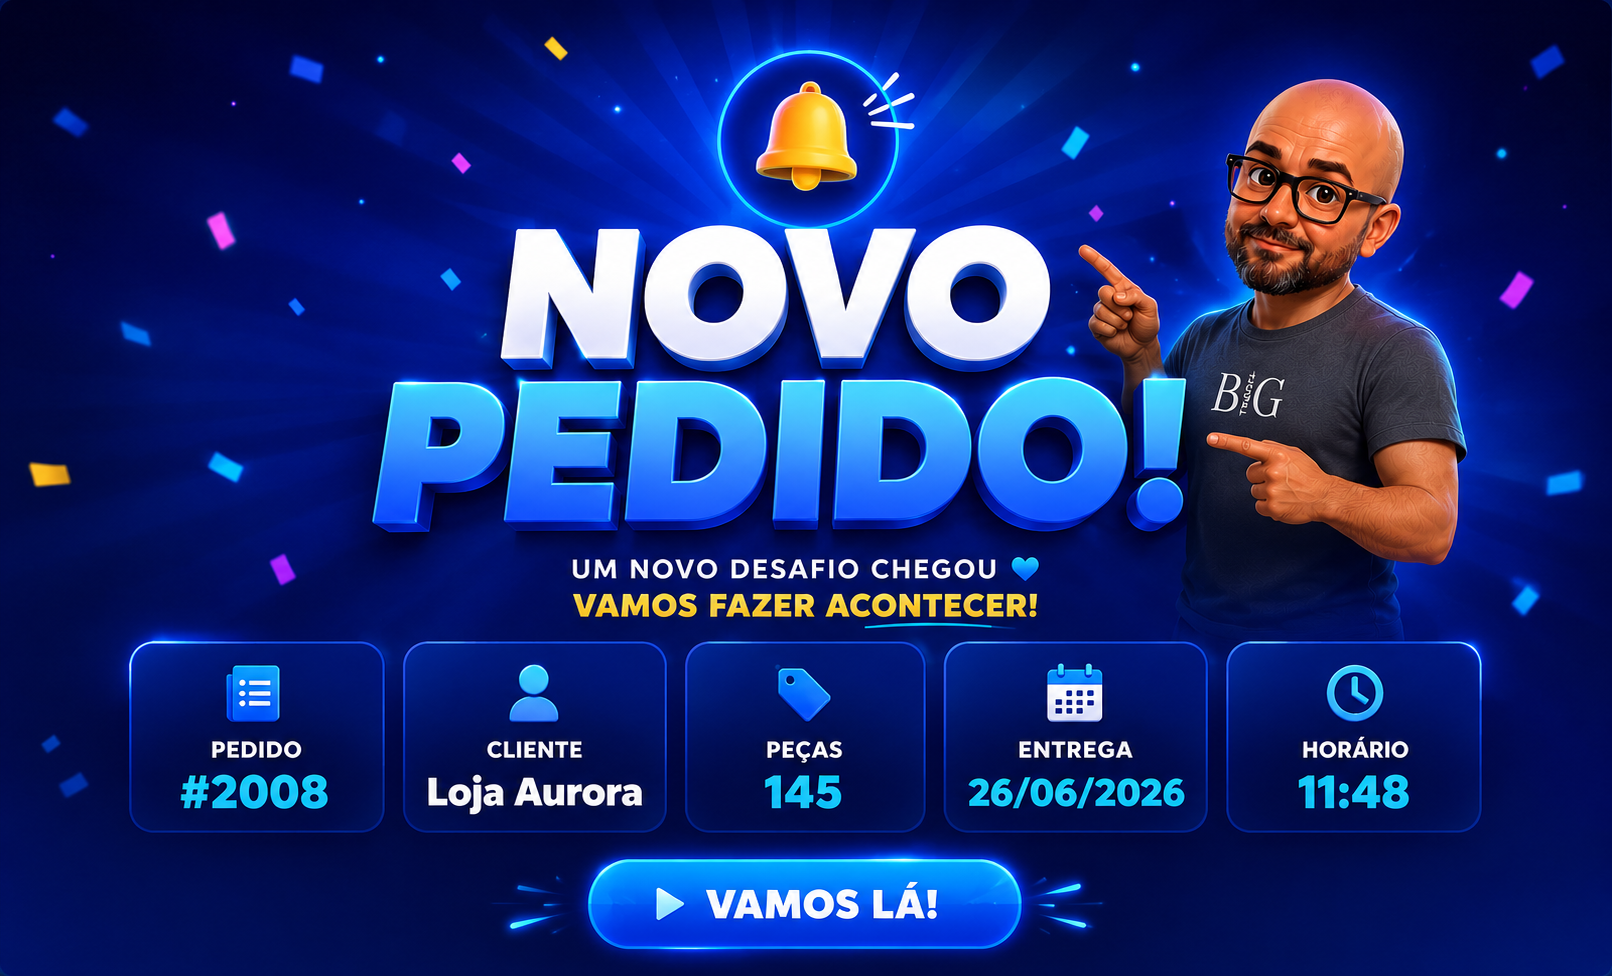
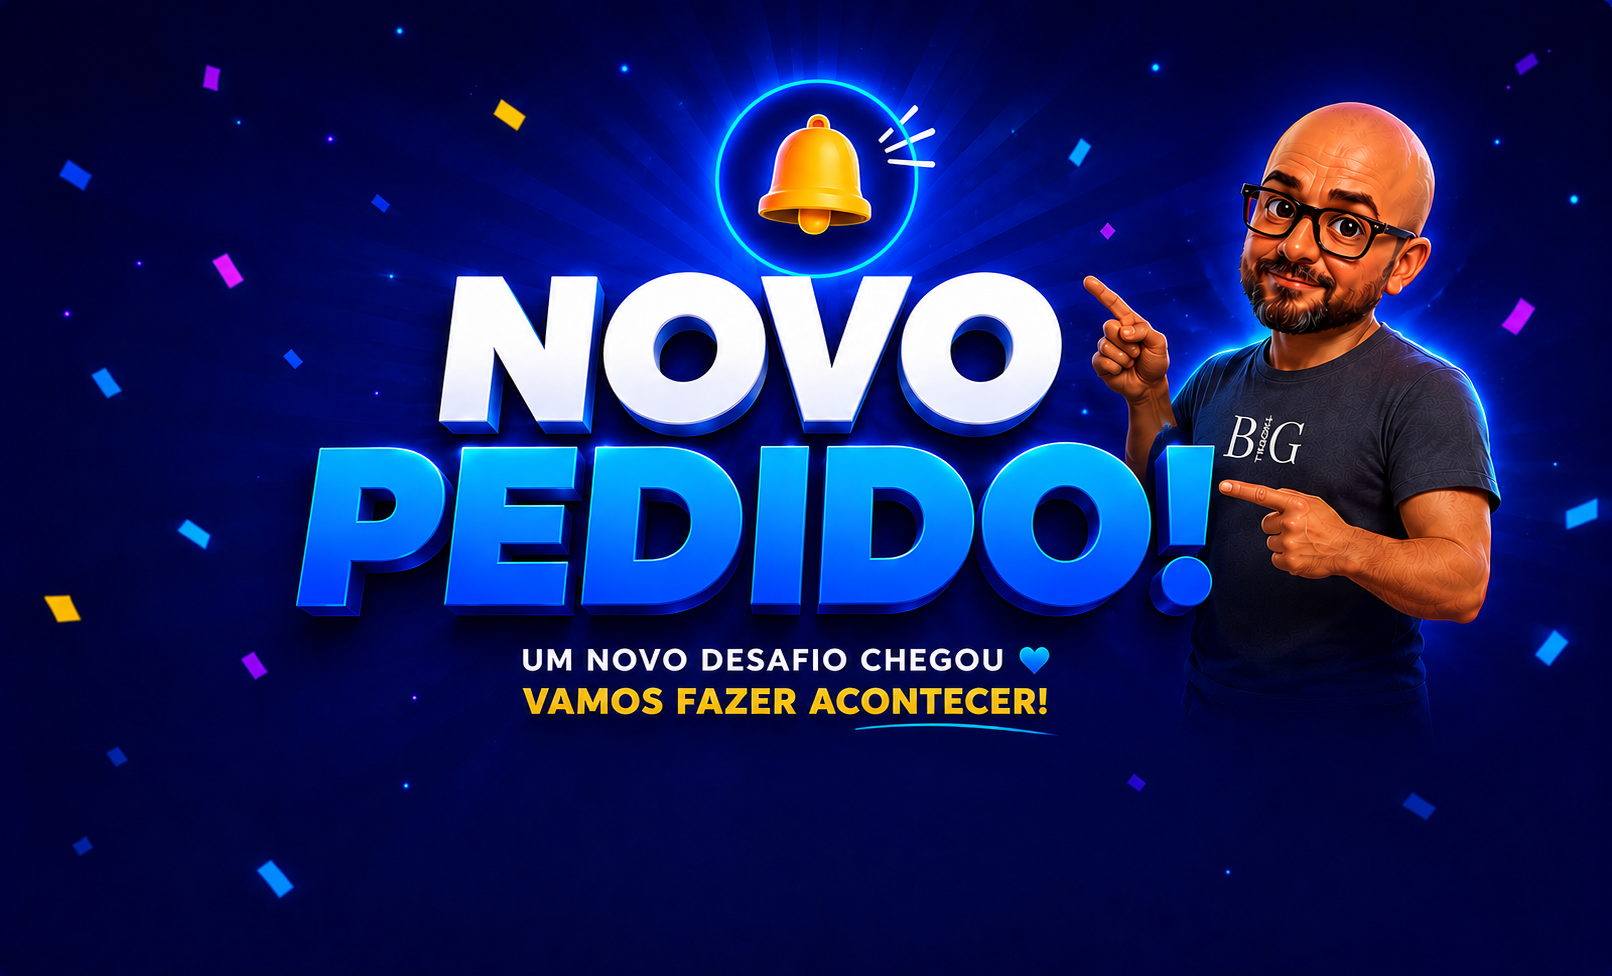
Novo Pedido: usa a arte LIMPA enviada (sem cards) como fundo
- Troca o fundo pela arte limpa (titulo + boneco + subtitulo, sem cards/botao).
- Os cards de dados reais e o botao ficam na area azul vazia abaixo do subtitulo,
  sem mascara nem moldura fantasma. Encaixe conferido.

Claude-Session: https://claude.ai/code/session_01XdKmwhB2iKVzR9dcT8XvFF

diff --git a/web/src/novo-pedido.css b/web/src/novo-pedido.css
@@ -1,32 +1,32 @@
-/* Tela "NOVO PEDIDO!" — a arte (título 3D + boneco + subtítulo + confete) vem da
-   imagem de fundo enviada; aqui desenhamos só a faixa de dados reais + botão. */
+/* Tela "NOVO PEDIDO!" — a arte limpa (título 3D + boneco + subtítulo + confete)
+   é o fundo; aqui só desenhamos a faixa de dados reais + botão na área vazia. */
 .np-bg {
   position: relative; width: 1920px; height: 1080px; overflow: hidden;
-  background: #0a1230 url("/np-bg-full.png") center top / cover no-repeat;
+  background: #0a1430 url("/np-bg-full.png") center top / cover no-repeat;
   font-family: Inter, "Segoe UI", sans-serif; color: #fff;
 }
 
-/* faixa inferior que cobre os dados de exemplo da arte e mostra os reais */
+/* faixa de dados, ancorada embaixo (sobre o azul vazio da arte) */
 .np-band {
-  position: absolute; left: 0; right: 0; bottom: 0; height: 256px;
-  display: flex; flex-direction: column; align-items: center; justify-content: center; gap: 22px;
-  background: linear-gradient(180deg, #0b1f70 0%, #081447 60%, #060f38 100%);
+  position: absolute; left: 0; right: 0; bottom: 26px;
+  display: flex; flex-direction: column; align-items: center; gap: 16px;
 }
 
-.np-stats { display: flex; gap: 22px; }
+.np-stats { display: flex; gap: 20px; }
 .np-stat {
-  width: 250px; padding: 18px 16px; border-radius: 20px; text-align: center;
+  width: 256px; padding: 12px 14px; border-radius: 18px; text-align: center;
   background: linear-gradient(180deg, #163a9e, #112a6e);
-  border: 2px solid #38bdf8aa; box-shadow: 0 10px 30px #00000050, 0 0 24px #38bdf833, inset 0 1px 0 #ffffff22;
+  border: 2px solid #38bdf8cc;
+  box-shadow: 0 10px 28px #00000055, 0 0 22px #38bdf833, inset 0 1px 0 #ffffff22;
 }
-.np-stat-ic { font-size: 30px; line-height: 1; }
-.np-stat-l { margin-top: 6px; font-size: 16px; font-weight: 800; letter-spacing: 1px; color: #93c5fd; }
-.np-stat-v { margin-top: 4px; font-size: 28px; font-weight: 900; color: #fff; white-space: nowrap; overflow: hidden; text-overflow: ellipsis; }
+.np-stat-ic { font-size: 26px; line-height: 1; }
+.np-stat-l { margin-top: 5px; font-size: 15px; font-weight: 800; letter-spacing: 1px; color: #93c5fd; }
+.np-stat-v { margin-top: 3px; font-size: 24px; font-weight: 900; color: #fff; white-space: nowrap; overflow: hidden; text-overflow: ellipsis; }
 
 .np-cta {
-  padding: 18px 64px; border-radius: 999px; font-size: 32px; font-weight: 900; letter-spacing: 1px;
+  padding: 15px 60px; border-radius: 999px; font-size: 28px; font-weight: 900; letter-spacing: 1px;
   color: #07235e; background: linear-gradient(180deg, #ffffff, #cfe1ff);
-  box-shadow: 0 14px 36px #1d4ed888, inset 0 2px 0 #fff; animation: np-pulsa 1.8s ease-in-out infinite;
+  box-shadow: 0 12px 30px #1d4ed888, inset 0 2px 0 #fff; animation: np-pulsa 1.8s ease-in-out infinite;
 }
 @keyframes np-pulsa { 0%,100% { transform: scale(1); } 50% { transform: scale(1.04); } }
 

diff --git a/web/src/version.ts b/web/src/version.ts
@@ -1,3 +1,3 @@
 // Versão visível na tela — bump a cada deploy para confirmar que a versão nova carregou
 // (se o número não mudar após atualizar, é cache do navegador).
-export const VERSION = "v1.59.0";
+export const VERSION = "v1.60.0";
